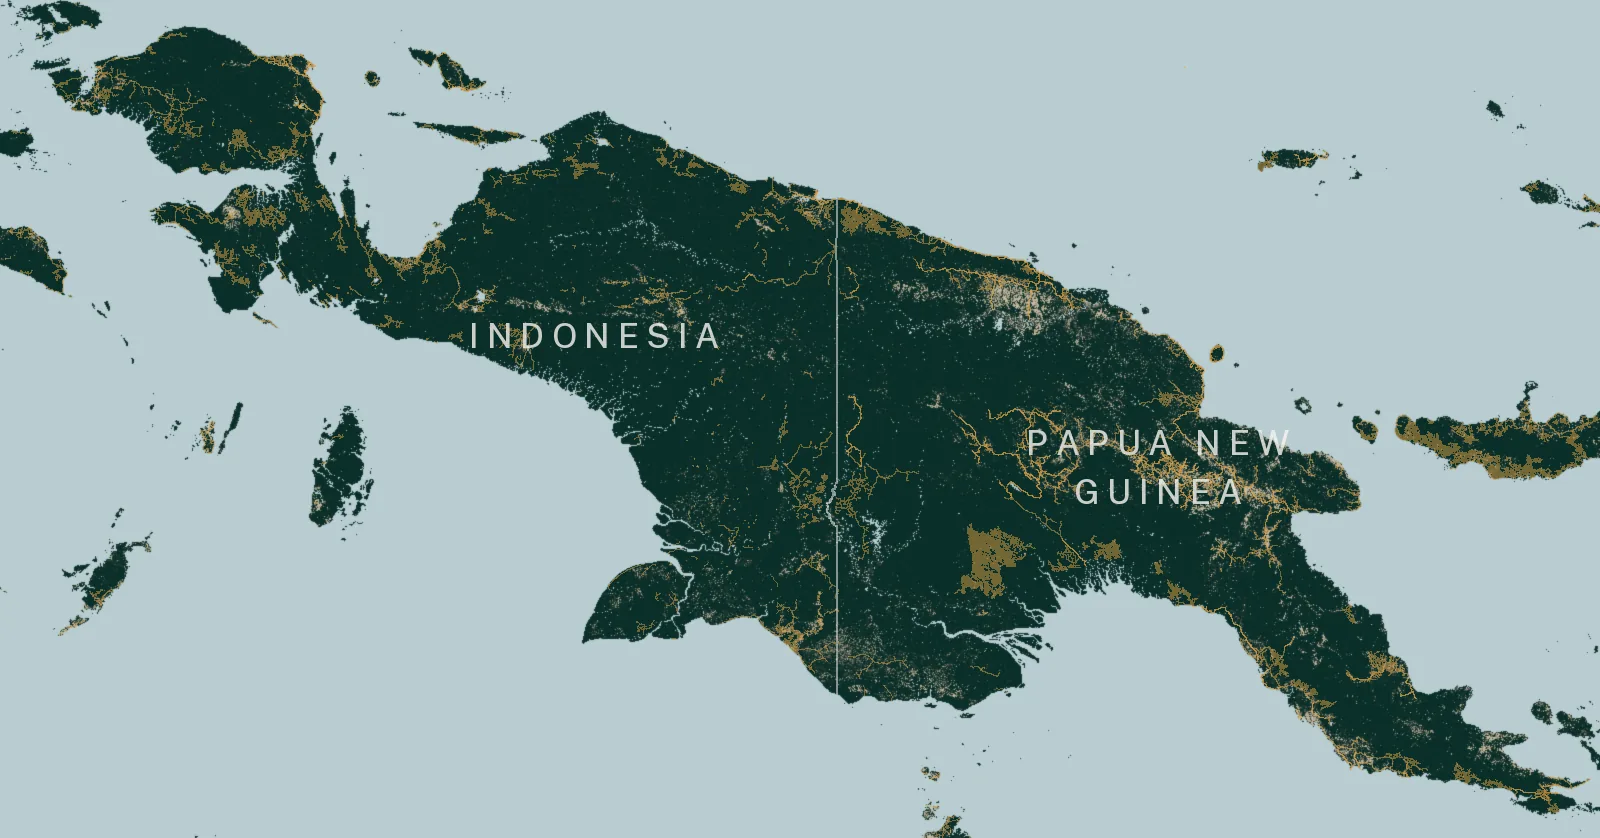
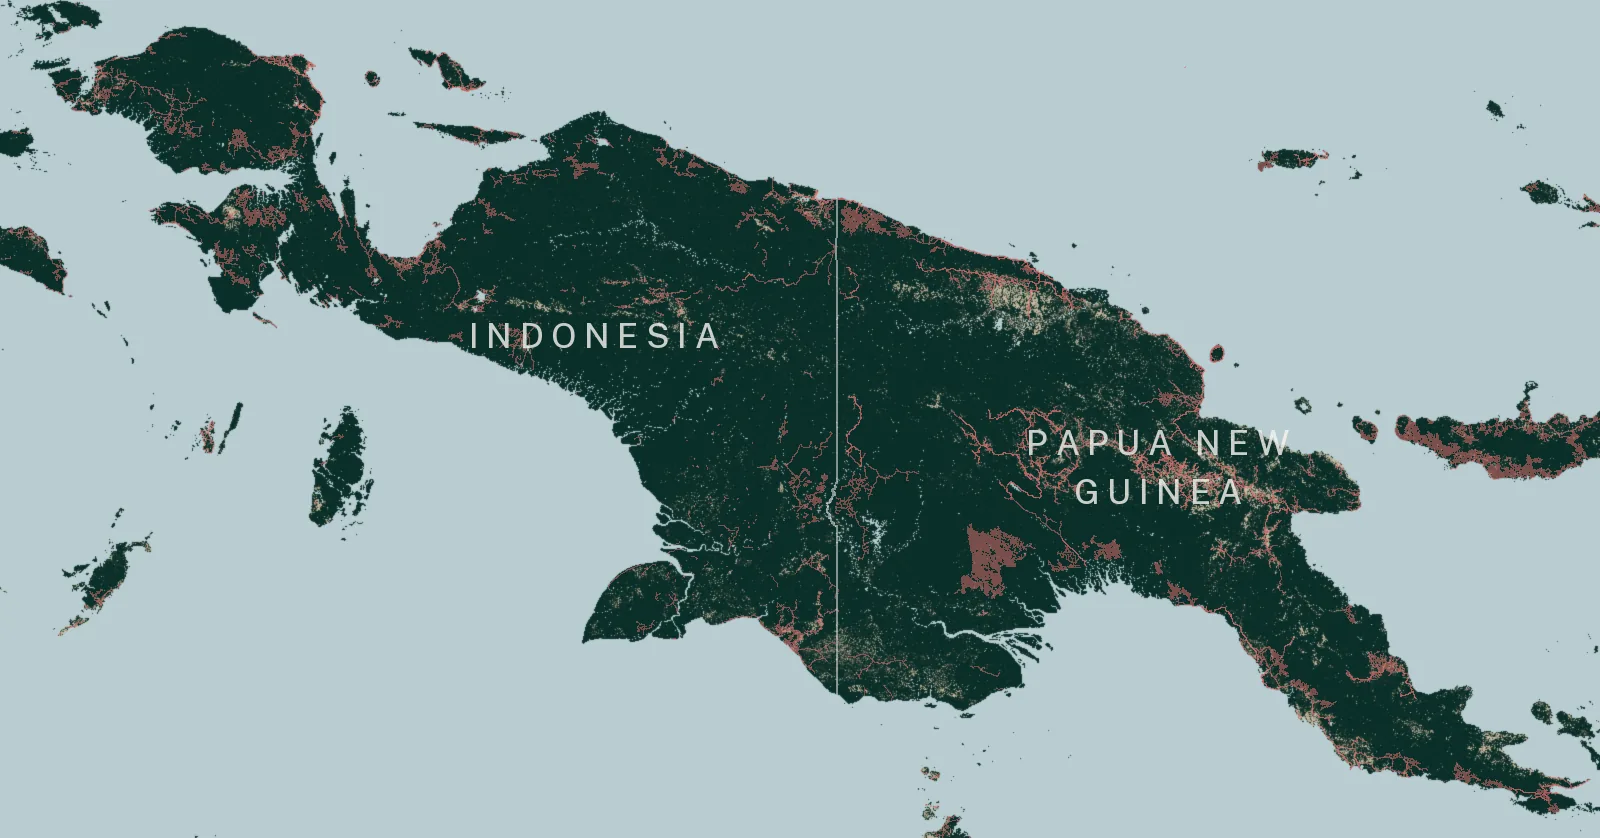
Pink roads, a legend for them, and Indonesia on land
Orange put the roads in the same register as the duotone's cleared
ground, so the lines vanished into exactly the areas they are there to
explain. Pink is the piece's own marker colour and nothing else on these
two panels uses it.

The key is drawn in the page rather than baked into the raster, so it
stays type and follows the translation. It reads from chapter.legend:
the Chapter wrapper folds config keys into the chapter object, so a
legend written in config never arrives as a prop of its own.

Halmahera's country name was sitting in the sea, which reads as a label
for the water. Moved onto the forest in the north-east, the one corner
the legend, scale bar and locator leave free.

The renderer's main() had drifted from what ships — no labels, no
border, no roads — so it is written back in, with the New Guinea
positions checked against the panel already published.

diff --git a/src/config.js b/src/config.js
@@ -695,7 +695,8 @@ export default {
       // box, locator and scale come from render_panels_watch.py
       scale: { n: 20, kmFrac: 0.1504, miFrac: 0.242 },
       locator: [128.17051, 0.63895],
-      caption: 'Forest remaining in 2025, with the road network in orange. The outline is Survival International\u2019s approximation of the lands used by O\u2019 Hongana Manyawa. For security reasons, map is deliberately rough.',
+      legend: [{ label: 'Roads', color: '#e66d6d' }],
+      caption: 'Forest remaining in 2025, with the road network in pink. The outline is Survival International\u2019s approximation of the lands used by O\u2019 Hongana Manyawa. For security reasons, map is deliberately rough.',
       title: 'The O\u2019 Hongana Manyawa in Halmahera',
       description: "<p>Lands used by uncontacted O\u2019 Hongana Manyawa people in Indonesia\u2019s Halmahera Island overlap with the Aketajawe-Lolobata National Park. However, voluntarily isolated members of the tribe use much more land, and mapping efforts by various groups of their territory are underway.</p><p>According to an approximate map by human rights organization Survival International, a wave of mining concessions, many for nickel, impact forests uncontacted O\u2019 Hongana Manyawa people depend on for food and survival.</p><p>The Jakarta declaration, which calls on governments to protect the lands and rights of uncontacted peoples worldwide, was drafted in Indonesia in a bid to strengthen the global alliance for the protection of uncontacted peoples and the inclusion of tribes in Indonesia.</p><p>For the safety of the isolated members of the group, Mongabay will not publish the most up-to-date map of lands the O\u2019 Hongana Manyawa people use.</p><p>\u201CThis map is very helpful in showing the existence of the O\u2019 Hongana Manyawa Indigenous Community \u2026 but does not yet cover the entire O\u2019 Hongana Manyawa Indigenous territory. The work to document the existence of O\u2019 Hongana Manyawa and its Indigenous territory is not yet complete, and it will continue,\u201D said Yoga Kipli, directorate of community support and former head of participatory mapping for the Indigenous Peoples\u2019 Alliance of the Archipelago (AMAN).</p>",
     },
@@ -709,7 +710,8 @@ export default {
       panelAlt: 'Satellite-derived map of forest remaining in 2025 across New Guinea, with roads marked and the border between Indonesia and Papua New Guinea shown',
       scale: { n: 400, kmFrac: 0.1719, miFrac: 0.2767 },
       locator: [140.5, -5.5],
-      caption: 'Forest remaining in 2025 across New Guinea, with the road network in orange.',
+      legend: [{ label: 'Roads', color: '#e66d6d' }],
+      caption: 'Forest remaining in 2025 across New Guinea, with the road network in pink.',
       title: 'Isolated tribes in New Guinea',
       description: "<p>Mongabay could not include any lands in New Guinea, which includes the Indonesian half of West Papua and the country of Papua New Guinea, in its assessment due to lack of accurate data, mapping sources and the safety of isolated tribes.</p><p>In West Papua, there are currently between two and 10 \u201Ctruly uncontacted tribal groups\u201D in the rainforests, said Dorince Mehue, an AMAN campaigner for the Papua region.</p><p>Calculating the number of tribes living in voluntary isolation in West Papua is challenging due to geographic difficulties, restricted access for journalists and international humanitarian organizations and surrounding communities deliberately withholding information on isolated tribes to protect them from exploitation or external threats.</p><p>The primary forests they depend on face multiple threats. This threatens the survival and culture of uncontacted tribes in West Papua, according to Mehue.</p><p>\u201CThey face the expansion of extractive industries,\u201D she told Mongabay. \u201COf hundreds of thousands of hectares of customary forests turned into monopolistic oil palm plantations and agribusiness projects. Nickel mining activities on small islands such as Gag Island in Raja Ampat, as well as commercial logging, are clearing primary forests.\u201D</p><p>The ongoing armed conflict, security forces and armed civilian groups have forced thousands of residents of remote villages to flee into the forest, Mehue said.</p>",
     },

diff --git a/src/components/stages/WatchArea.css b/src/components/stages/WatchArea.css
@@ -99,6 +99,45 @@
   max-height: 58vh;                                /* adjust tallest panel */
 }
 
+/* Key for the layers the raster alone cannot name. Top-left, opposite the
+   scale bar and the locator globe, which hold the other two corners. */
+.watch-legend {
+  position: absolute;
+  top: 2.4%;
+  left: 2.4%;
+  margin: 0;
+  padding: 0;
+  list-style: none;
+  display: flex;
+  flex-direction: column;
+  gap: 5px;                                        /* adjust gap between items */
+  pointer-events: none;
+}
+
+.watch-legend__item {
+  display: flex;
+  align-items: center;
+  gap: 7px;                                        /* adjust swatch-to-label gap */
+  font-family: var(--font-text);
+  font-size: var(--fs-furniture, 12px);
+  font-weight: 400;
+  line-height: 1.25;
+  color: #f7f4ee;                                  /* adjust legend text colour */
+  /* Same halo as the scale bar: these two panels have a pale sea, and white
+     furniture needs holding against it as well as against the forest. */
+  text-shadow: 0 0 2px rgba(24, 24, 24, 0.8),
+               0 1px 3px rgba(24, 24, 24, 0.55);
+}
+
+.watch-legend__swatch {
+  display: block;
+  width: 20px;                                     /* adjust swatch length */
+  height: 2px;
+  border-radius: 1px;
+  box-shadow: 0 0 2px rgba(24, 24, 24, 0.8),
+              0 1px 3px rgba(24, 24, 24, 0.55);
+}
+
 /* The scale bar is drawn white, which is safe on the ranked panels because
    those boxes are inland and dark all over. These two are islands: the bar's
    corner can fall on the sea, which is now a light tone. A soft shadow keeps

diff --git a/src/components/stages/WatchArea.jsx b/src/components/stages/WatchArea.jsx
@@ -25,11 +25,16 @@ const WatchArea = ({
   panelAlt = '',
   scale = {},
   locator,
+  legend = [],
   caption,
   chapter = {},
 }) => {
   const { t } = useTranslation();
   const { title, description } = chapter;
+  // `legend` is one of the keys the Chapter wrapper pulls out of the config
+  // and folds into the chapter object, so it never arrives as a prop of its
+  // own however it is written in config.js. Read from both.
+  const keys = (chapter.legend && chapter.legend.length ? chapter.legend : legend) || [];
 
   return (
     <section className="watch-section">
@@ -56,6 +61,23 @@ const WatchArea = ({
               alt={panelAlt ? t(panelAlt) : ''}
               loading="lazy"
             />
+            {/* Top-left, opposite the scale bar and the locator, which hold
+                the other two corners. Drawn in the page rather than baked into
+                the raster so the type stays type — and so a change of wording
+                does not mean re-reading the imagery. */}
+            {keys.length > 0 && (
+              <ul className="watch-legend">
+                {keys.map((item) => (
+                  <li key={item.label} className="watch-legend__item">
+                    <span
+                      className="watch-legend__swatch"
+                      style={{ background: item.color }}
+                    />
+                    {t(item.label)}
+                  </li>
+                ))}
+              </ul>
+            )}
             <ScaleBar {...scale} />
             {locator && <LocatorGlobe center={locator} />}
           </div>
